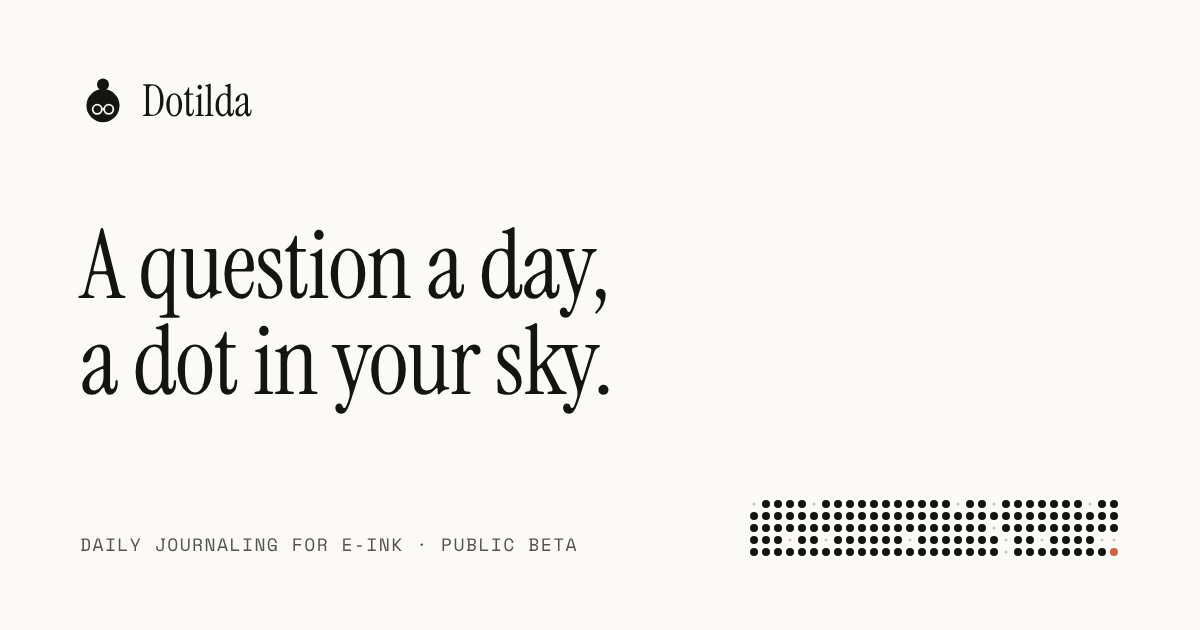
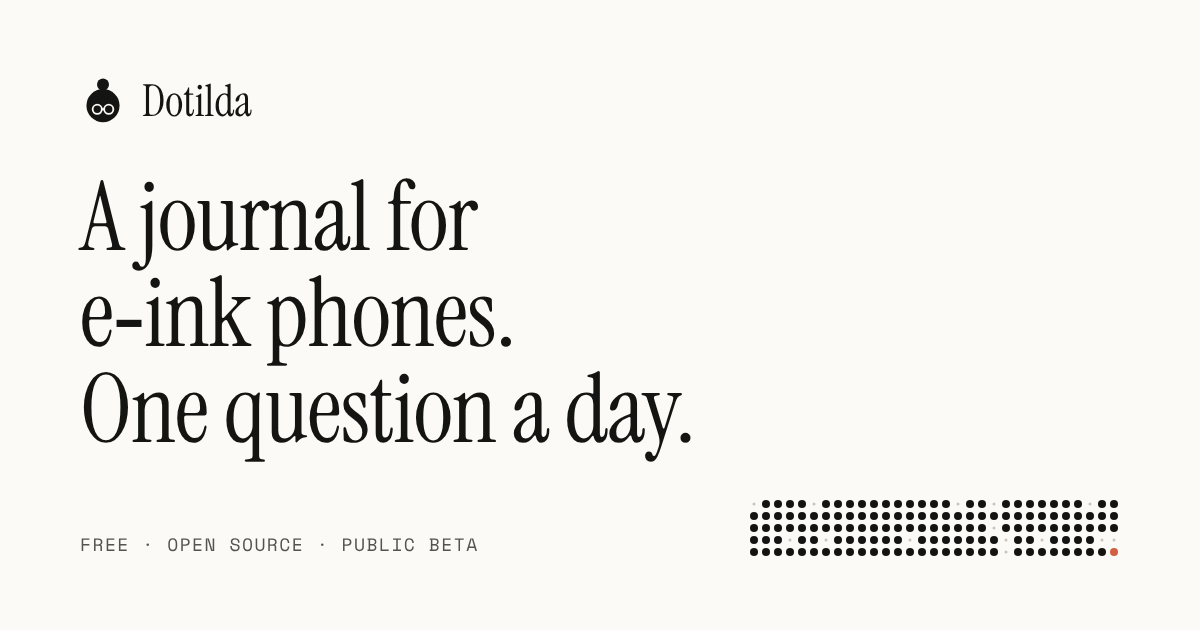
Share images carry the new title
The five share images now show the hero's title ("A journal for e-ink
phones. One question a day.", in each language, one sentence per line) and
its small line (free, open source, public beta). The images' descriptions
follow.

Claude-Session: https://claude.ai/code/session_01G1EGSok3Ek98zi1XzLYMwD

Changed region(s): [[0.0617, 0.2714, 0.5858, 0.7238], [0.0617, 0.8444, 0.4933, 0.8746]]

diff --git a/README.md b/README.md
@@ -231,7 +231,7 @@ anonymously, and that is all") true: any new tracking needs that line, and this 
 ### Share images
 
 `npm run og` draws `public/og/<code>.png` (1200×630) for every language file: Dotilda, the
-tagline (`hero.title`), the label and a few rows of dots. Long taglines shrink to fit.
+hero title (`hero.headline`, one sentence per line), its small line (`hero.kicker`) and a few rows of dots. Long titles shrink to fit.
 Run it after changing a tagline or adding a language, and commit the images. Facebook and
 LinkedIn cache share cards: pass the URL through their debuggers to refresh them.
 
